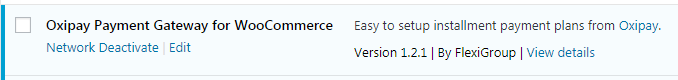
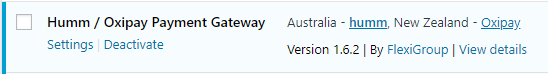
modified ps1.6 repo

Changed region(s): [[0.0, 0.0, 1.0, 1.0], [0.4964, 0.5676, 0.9617, 0.7838], [0.062, 0.5135, 0.3102, 0.7027]]

diff --git a/docs/platforms/woocommerce.md b/docs/platforms/woocommerce.md
@@ -1,4 +1,4 @@
-<h1>Setup on WooCommerce</h1>
+#Setup on WooCommerce
 
 <div class="panel">
   You will need your <b>Merchant ID</b> and an <b>Encryption Key</b> for the installation.
@@ -30,16 +30,12 @@
 
 ## Configuring Plugin
 
-1 - From the side-bar, click on **WooCommerce** and then on **Settings**.
+1 - From the **Plugins** page, find the Humm/Oxipay plugin, and click on **Settings**.
 
 ![32.png](/img/platforms/woocommerce/32.png)
 
-2 - From the top bar, click on **Payments** and then on **humm**.
-
-![33.png](/img/platforms/woocommerce/33.png)
-
-
-Below is a screenshot of the various **humm** settings available and what they are for.
+2 - The **humm** settings page will be shown if it is after the **humm** launch date. Otherwise you may still see an **Oxipay** settings page. 
+Below is a screenshot of the various **humm** settings available and what they are for. 
 
 ![34.png](/img/platforms/woocommerce/34.png)
 
@@ -51,7 +47,7 @@ Below is a screenshot of the various **humm** settings available and what they a
 
 **Test Mode**: For troubleshooting of issues or testing of **humm**'s user experience.
 
-**Modal Checkout**: Completes transaction on your store for a more seamless experience.
+**Force humm** This is for testing humm before the official launch. Leave it unchecked unless you are sure about what you are doing.
 
 **Price Widget**: Displays an **humm** price widget on each of your store's product pages. (**Recommended**)
 
@@ -72,5 +68,33 @@ Below is a screenshot of the various **humm** settings available and what they a
 **Maximum Order Total**: Orders above that will not have **humm** as a payment option. Leave as 0 for no limit.
 
 <div class="panel">
-  Leaving both Minimum and Maximum Order Totals 0 will enable **humm** on all products.
+  Leaving both Minimum and Maximum Order Totals 0 will enable <b>humm</b> on all products.
 </div>
+
+## Refunding
+
+This plugin supports WooCommerce online refunding.
+
+1 - Find and click the order you want to refund from the orders list. 
+
+2 - In the Order details page, click the "Refund" button
+
+![10.png](/img/platforms/woocommerce/10.png)
+
+3 - Choose the items or set the amount you want to refund, and click the "Refund via humm" button.
+
+![11.png](/img/platforms/woocommerce/11.png)
+
+4 - In this way, a refund request will be sent to the humm server and you will be shown the result immediately.
+
+## **Humm** official launch
+
+Before the **humm** official launch, the plugin will behave like an Oxipay payment plugin. It will show Oxipay, and checkout with the Oxipay gateway.
+
+The plugin will automatically switch itself to **humm** once it is officially launched. It will then show **humm**, and checkout with the **humm** gateway.
+
+The switch-over should be automatic and you as the merchant should not need to do anything on the launch date to make the switch.
+
+## Updating from the old Oxipay plugin
+
+For existing Oxipay merchants, just click the "update" button to update the existing Oxipay plugin when an update is available.

diff --git a/docs/index.md b/docs/index.md
@@ -1,14 +1,23 @@
 ## What is **humm**?
-**Humm** is the Buy Now Pay Later service that's perfect for both the 'Little things' and 'Big things' in life.
-Customers can buy everything from $1 to $30,000 depending on where they shop.
-All purchases with **humm** are interest free forever.
+**Humm** is the Buy Now Pay Later service everyone is talking about – because it’s interest free forever. You can buy ‘Little things’ and ‘Big things’ from $1 to $30,000 quickly and easily. 
+
 
 ### How it works 
 **Humm** is integrated at point of sale, instore and online.
 
-For 'Little things' you can be approved for up to $2,000.
-You can choose to pay weekly or fortnightly over 2.5 or 5 months.
-Each repayment frees your balance to spend again.
+For ‘Little things’, you can apply for up to $2,000 then choose how to repay:  
+- Weekly or fortnightly over 2.5 months on purchases up to $500  
+- Fortnightly over 2.5 or 5 months on purchases over $500.
 
-For 'Big things' **humm** can pre-approve up to $10,000 or you can apply instore for up to $30,000 depending on the retailer.
-You can choose to repay in 6, 12, 24...all the way up to 60 months.
+For ‘Big things’ you can apply for:  
+- up to $10,000 pre-approved – so you can shop with confidence  
+- up to $30,000 in store – based on where you’re shopping  
+- 6, 12, 24, 36, 48, 54 or 60 months to repay – depending on your store.
+
+
+
+
+
+<br><br>
+Fees, charges, terms, conditions and lending criteria apply.
+

diff --git a/docs/platforms/prestashop.md b/docs/platforms/prestashop.md
@@ -14,7 +14,7 @@ This document outlines the steps needed to install **humm** on your PrestaShop s
 **1** - Click the following URL corresponding to your PrestaShop version to download the plugin.
 
 For PrestaShop 1.6:
-[https://github.com/shophumm/humm-prestashop/releases/tag/1.5.1](https://github.com/shophumm/humm-prestashop/releases/tag/1.5.1)  
+[https://github.com/shophumm/humm-prestashop/releases/tag/1.5.2](https://github.com/shophumm/humm-prestashop/releases/tag/1.5.2)  
 For PrestaShop 1.7: coming soon.
 
 **2** - Log into your PrestaShop's admin area.
